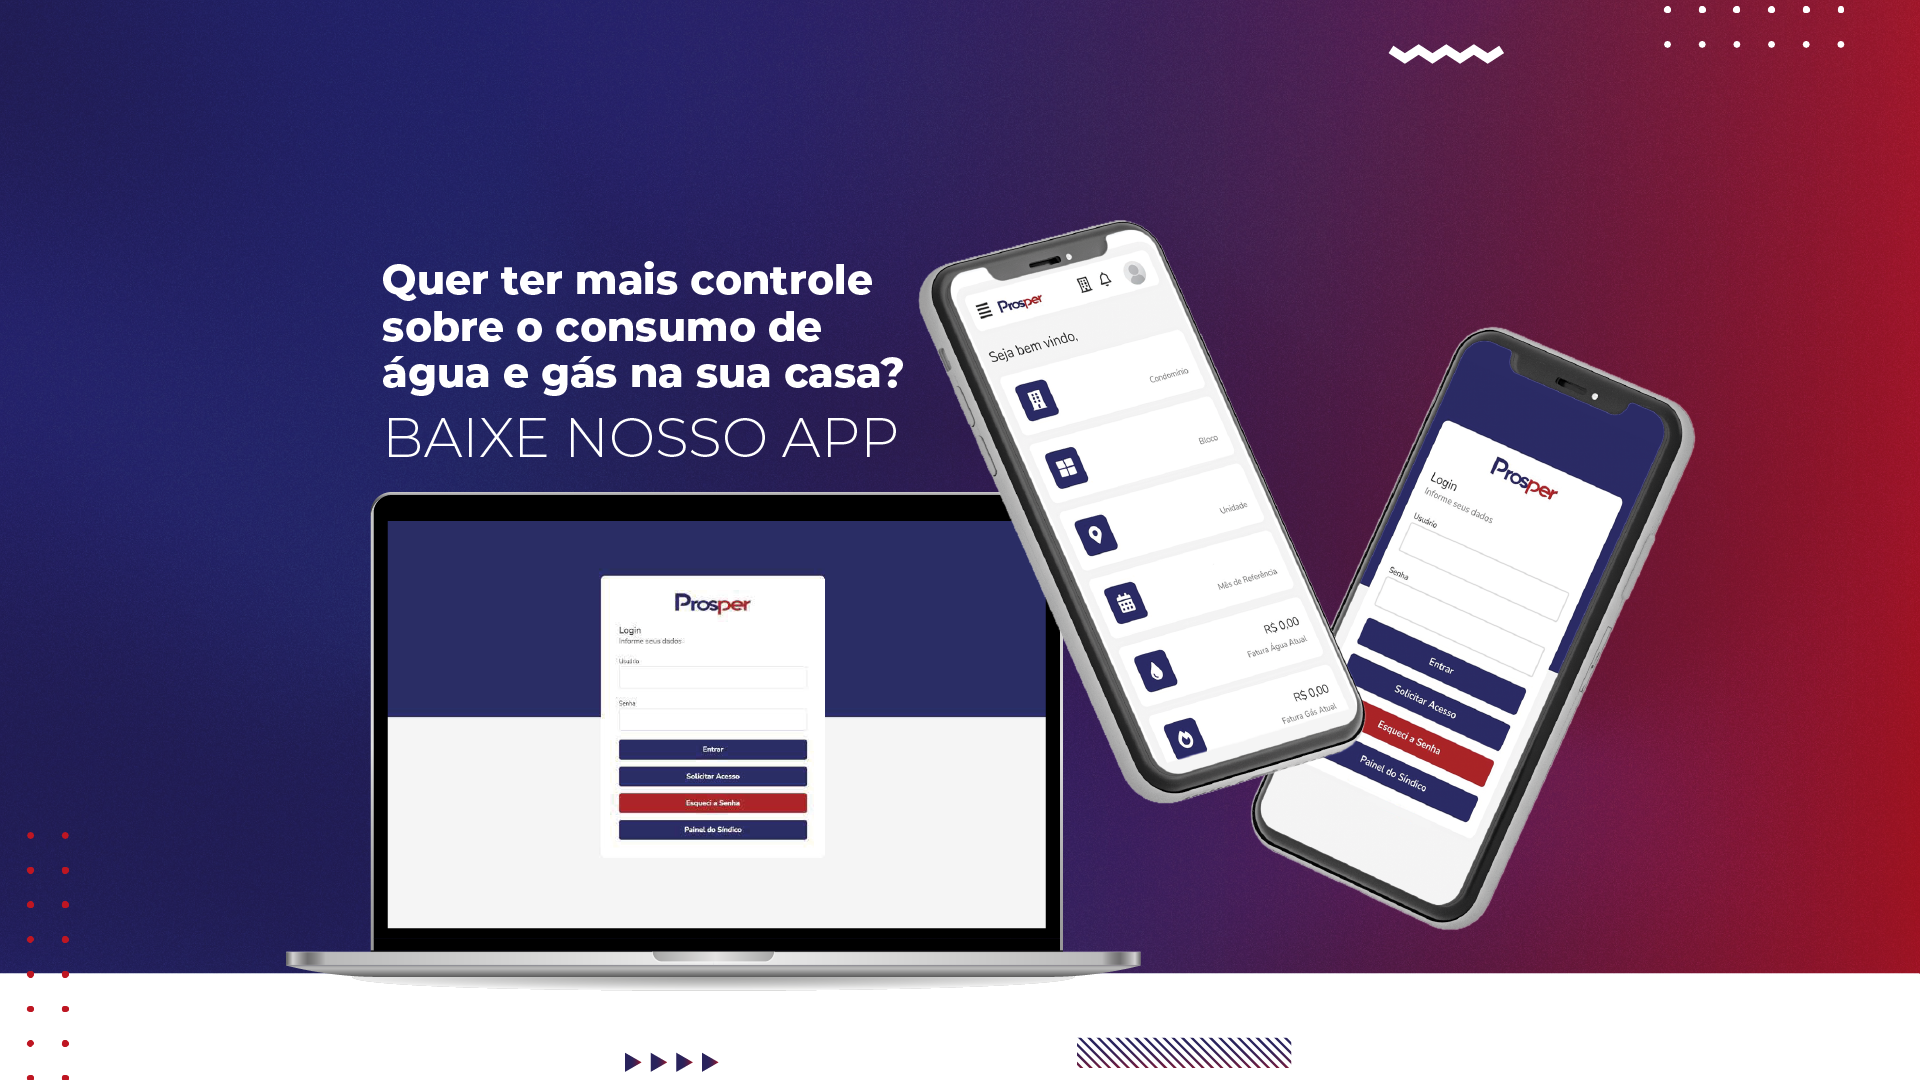
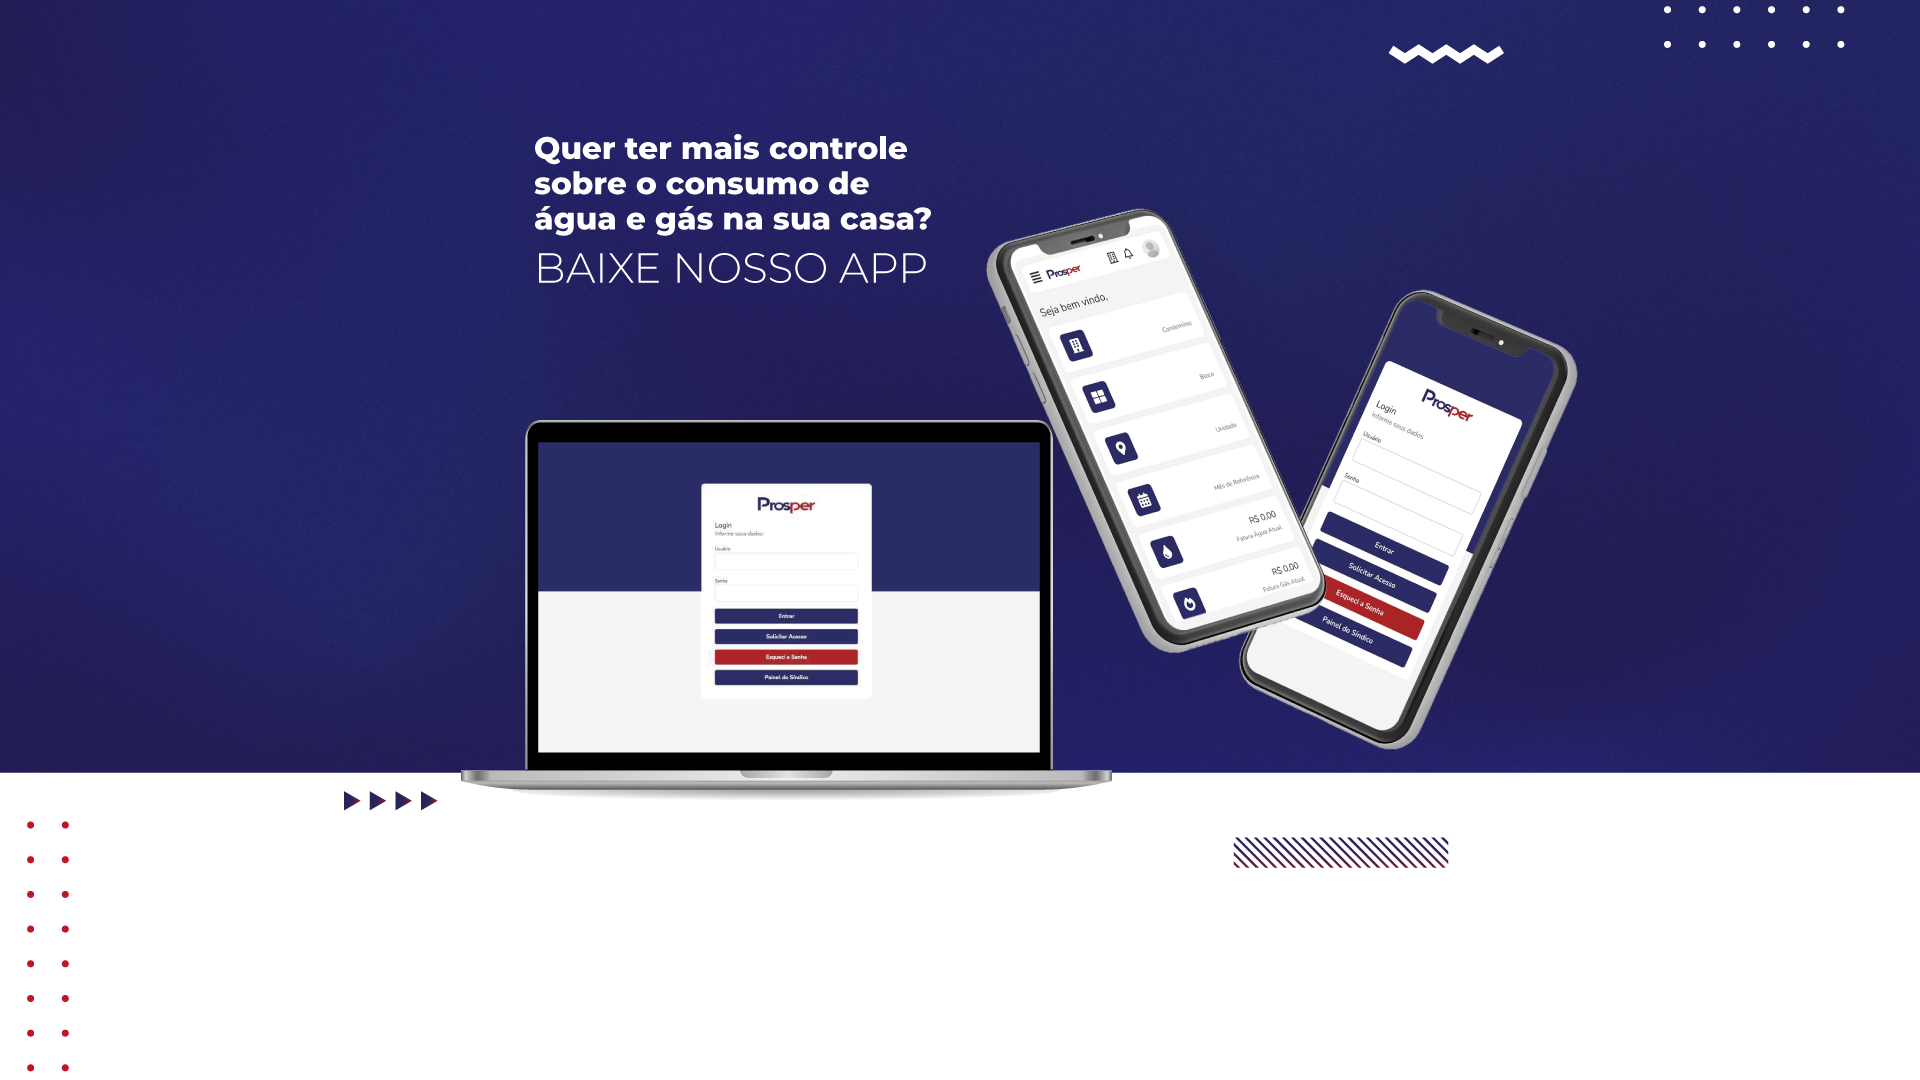
Alterações

diff --git a/index.html b/index.html
@@ -143,29 +143,29 @@
 
   <div class="row">
     <div class="col-md-12">
-      <h2 id="servico" class="texto-servico featurette-heading fw-normal lh-1">Torne o consumo individual de água e gás <br><span style="opacity:1; color: #be1522;">mais inteligente.</span></h2><br></h2>
+      <h2 id="servico" class="texto-servico featurette-heading fw-normal lh-1">Torne o <span style="opacity:1; color: #be1522;font-weight: bold;">consumo</span> individual <br>de água e gás <span style="opacity:1; color: #be1522;font-weight: bold;">mais inteligente.</span></h2><br></h2>
     </div>
   </div>
 
-  <div class="container marketing" >
+  <div class="container marketing">
 
     <!-- Three columns of text below the carousel -->
     <div class="row">
         <div class="col-lg-3" style="text-align: center;">
-        <img class="img-fluid" src="./img/icone_1.png" style="margin-bottom: 20px; color: #1894f2;" width="140" height="140"></i>
+        <img class="img-fluid" src="./img/icone_1.png" style="margin-bottom: 20px;" width="140" height="140"></i>
         <h2 class="fw-normal">Medição Indívidual <br>de Água e Gás</br></h2>
       </div><!-- /.col-lg-4 -->
       <div class="col-lg-3" style="text-align: center;">
-        <img class="img-fluid" src="./img/icone_2.png" style="margin-bottom: 20px; color: #1894f2;" width="140" height="140"></i>
+        <img class="img-fluid" src="./img/icone_2.png" style="margin-bottom: 20px;" width="140" height="140"></i>
         <h2 class="fw-normal">Aplicativo</h2>
       </div><!-- /.col-lg-4 -->
       <div class="col-lg-3" style="text-align: center;">
-        <img class="img-fluid" src="./img/icone_3.png" style="margin-bottom: 20px; color: #1894f2;" width="140" height="140"></i>
+        <img class="img-fluid" src="./img/icone_3.png" style="margin-bottom: 20px;" width="140" height="140"></i>
         <h2 class="fw-normal">IOT Leituras Diárias</h2>
       </div><!-- /.col-lg-4 -->
       <div class="col-lg-3" style="text-align: center;">
-        <img class="img-fluid" src="./img/icone_4.png" style="margin-bottom: 20px; color: #1894f2;" width="140" height="140"></i>
-        <h2 class="fw-normal">Alertas Personalizados</h2>
+        <img class="img-fluid" src="./img/icone_4.png" style="margin-bottom: 20px;" width="140" height="140"></i>
+        <h2 class="fw-normal img-4-diferente">Alertas Personalizados</h2>
       </div><!-- /.col-lg-4 -->
     </div><!-- /.row -->
     </div><!-- /.container -->
@@ -178,13 +178,13 @@
 
     <div class="row featurette">
       <div class="col-md-7 order-md-2">
-        <h2 class="featurette-heading fw-normal lh-1" >Conheça nossa tecnologia de Telemetria.</h2>
-        <p class="lead">A internet das coisas vem democratizando e abrindo portas para novas tecnologias, nós da Prosper sempre realizamos P&D para melhorar o futuro do mercado de individualização de água e gás.
-          A Telemetria é uma tecnologia de medição de dados de forma remota para uma central de monitoramento, que os envia posteriormente a uma central de informação.</p>
+        <h2 class="featurette-heading fw-normal lh-1" style="color:#25246b;font-weight: bold;">O que é Telemetria?</h2>
+        <p class="lead"><span style="opacity:1; color: #be1522; font-weight: bold;">A internet</span> está abrindo portas e transformando tudo! <br><span style="opacity:1; color: #be1522; font-weight: bold;">A Telemetria é nossa estrela:</span> medimos e transmitimos dados de forma mágica, direto para o coração da
+          operação. <br>Aqui na Prosper, <span style="opacity:1; color: #be1522;font-weight: bold;">estamos sempre à frente, pesquisando e desenvolvendo</span> para aprimorar o universo da individualização de água e gás.</p>
         <p><a class="btn btn-primary btn-lg btn-painel-telemetria" href="telemetria.html">Saiba Mais</a></p>
         </div>
       <div class="col-md-5 order-md-1">
-        <img class="bd-placeholder-img-lg featurette-image img-fluid mx-auto" src="img/banner_telemetria_tela_principal.png" style="margin-bottom: 20px; color: #1894f2;"  width="500" height="500"></i>
+        <img class="bd-placeholder-img-lg featurette-image img-fluid mx-auto" src="img/banner_telemetria_tela_principal.png" style="margin-bottom: 20px;" width="500" height="500"></i>
       </div>
     </div>
   </div><!-- /.container -->
@@ -208,15 +208,15 @@
     
         <div class="row featurette">
           <div class="col-md-7 order-md-2">
-            <h2 class="featurette-heading fw-normal lh-1" >Medição Individualizada de Água e Gás.</h2>
-            <p class="lead">O Sistema de Medição Individualizada consiste na instalação de determinado tipo de equipamento (hidrômetro/gasômetro) capaz de medir individualmente o consumo de água de cada apartamento. Ou seja, o morador paga por aquilo que consumiu.</p>
-            <h3>Benefícios da Individualização:</h3>
+            <h1 class="featurette-heading fw-normal lh-1" style="color:#25246b;font-weight: bold;">Cada um com sua conta!</h1>
+            <p class="lead" style="text-align: justify;">Imagine só: cada apartamento com seu próprio medidor! Isso mesmo, com o Sistema de Medição Individualizada, instalamos equipamentos especiais (hidrômetros/gasômetros) que registram o consumo de água e gás de cada apartamento separadamente. Chega de rateios injustos! Agora, você paga somente pelo que realmente usou. Simples assim.</p>
+            <h3 style="color:#25246b;font-weight: bold;">O que você vai ganhar:</h3>
             <ul class="list-group list-group-flush">
               <li class="list-group-item" aria-current="true">Transparência no pagamento Individualizado</li>
               <li class="list-group-item">Valorização do Imóvel</li>
               <li class="list-group-item">Justiça Social</li>
               <li class="list-group-item">Tecnologia avançada de análise de consumo</li>
-              <li class="list-group-item">Proporciona análise dos dados entre Medição Individual X Companhia de Água <br>(detectando possíveis vazamentos na área comum)</li>
+              <li class="list-group-item">Proporciona análise dos dados entre <br>Medição Individual X Companhia de Água <br>(detectando possíveis vazamentos na área comum)</li>
             </ul>
             </div>
           <div class="col-md-5 order-md-1">

diff --git a/carousel.css b/carousel.css
@@ -2,7 +2,7 @@
 -------------------------------------------------- */
 /* Padding below the footer and lighter body text */
 
-  @import url('https://fonts.googleapis.com/css2?family=Montserrat:wght@500&display=swap');
+@import url('https://fonts.googleapis.com/css2?family=Montserrat:wght@500;600&display=swap');
 
 body {
   font-family: 'Montserrat', sans-serif;
@@ -78,11 +78,12 @@ body {
 
 .btn-painel-principal{
   font-size: 25px;
-  background: linear-gradient(to right, #25246b 50%,#981526 100%);
+  /* background: linear-gradient(to right, #25246b 50%,#981526 100%); */
+  background-color: #981526;
   border-color: white;
   position: relative;
-  top: 925px;
-  left: 1325px;
+  top: 600px;
+  left: 400px;
   
 }
 
@@ -92,7 +93,8 @@ body {
 
 .btn-painel-telemetria{
   font-size: 25px;
-  background: linear-gradient(to right, #25246b 50%,#981526 100%);
+  /* background: linear-gradient(to right, #25246b 50%,#981526 100%); */
+  background-color: #25246b;
   border-color: white;
 }
 
@@ -114,25 +116,22 @@ body {
 }
 
 .btn-lojaGoogle{
-  width: 180px;
+  width: 190px;
   position: relative;
-  left: 64%;
-  bottom: 90vh;
-
+  left: 30%;
+  bottom: 78vh;
 }
 
 .btn-lojaApple{
-  width: 190px;
+  width: 200px;
   position: relative;
-  left: 64%;
-  bottom: 90vh;
+  left: 30%;
+  bottom: 78vh;
 }
 
 .rodape-fundo{
   background: linear-gradient(to right, #25246b 50%,#981526 100%);
 }
-
-
 
 .menu-header{
   margin-left: 12rem;
@@ -182,19 +181,25 @@ body {
 
   .featurette-heading {
     margin-top: 2rem;
-}
+  }
+
+  .img-4-diferente{
+    padding-left: 45px;
+  }
 
   .btn-painel-principal{
     position: relative;
-    top: 725px;
-    left: 975px;
+    top: 480px;
+    left: 300px;
     
   }
   .btn-lojaGoogle{
-  bottom: 663px;
+    bottom: 590px;
+    left: 380px;
   }
   .btn-lojaApple{
-    bottom: 663px;
+    bottom: 590px;
+    left: 380px;
   }
 }
 
@@ -210,15 +215,21 @@ body {
 
 .btn-painel-principal{
   position: relative;
-  top: 525px;
-  left: 675px;
+  font-size: 18px;
+  height: 40px;
+  top: 320px;
+  left: 220px;
 }
 
 .btn-lojaGoogle{
-bottom: 480px;
+  left: 250px;
+  width: 160px;
+  bottom: 420px;
 }
 .btn-lojaApple{
-  bottom: 480px;
+  left: 255px;
+  width: 170px;
+  bottom: 420px;
 }
 }
 
@@ -239,17 +250,17 @@ bottom: 480px;
 
 @media screen and (max-width: 425px){
   .btn-lojaGoogle{
-    width: 100px;
+    width: 80px;
     position: relative;
-    left: 25%;
-    bottom: 20vh;
+    left: -8%;
+    bottom: 21vh;
   }
   
   .btn-lojaApple{
-    width: 115px;
+    width: 86px;
     position: relative;
-    left: 25%;
-    bottom: 20vh;
+    left: -8%;
+    bottom: 21vh;
   }
 }
 
@@ -281,9 +292,8 @@ bottom: 480px;
 
   .btn-painel-principal{
     position: relative;
-    top: 25vh;
-    left: 11vh;
-    /* width: 100px; */
+    top: 20vh;
+    left: -90px;
     font-size: 1.0rem;
   }
   
